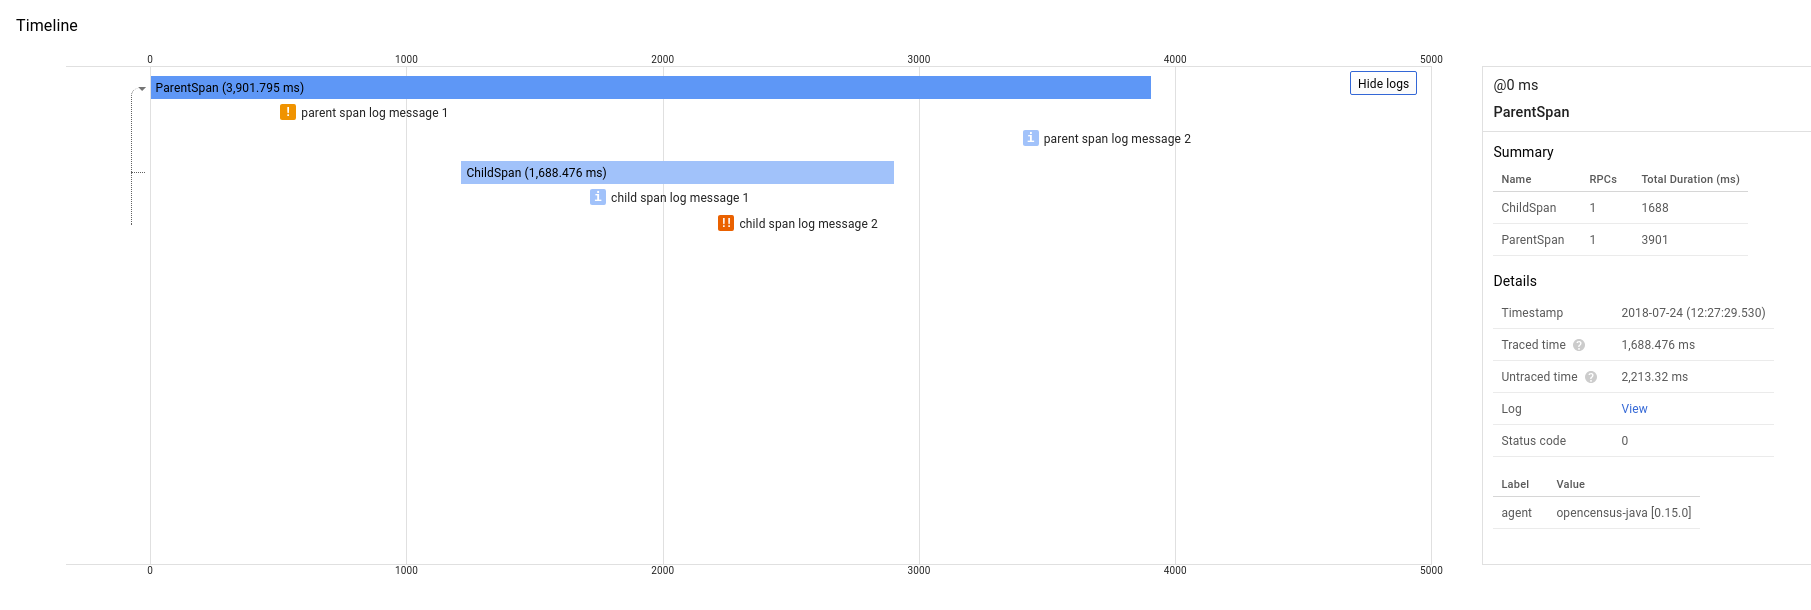
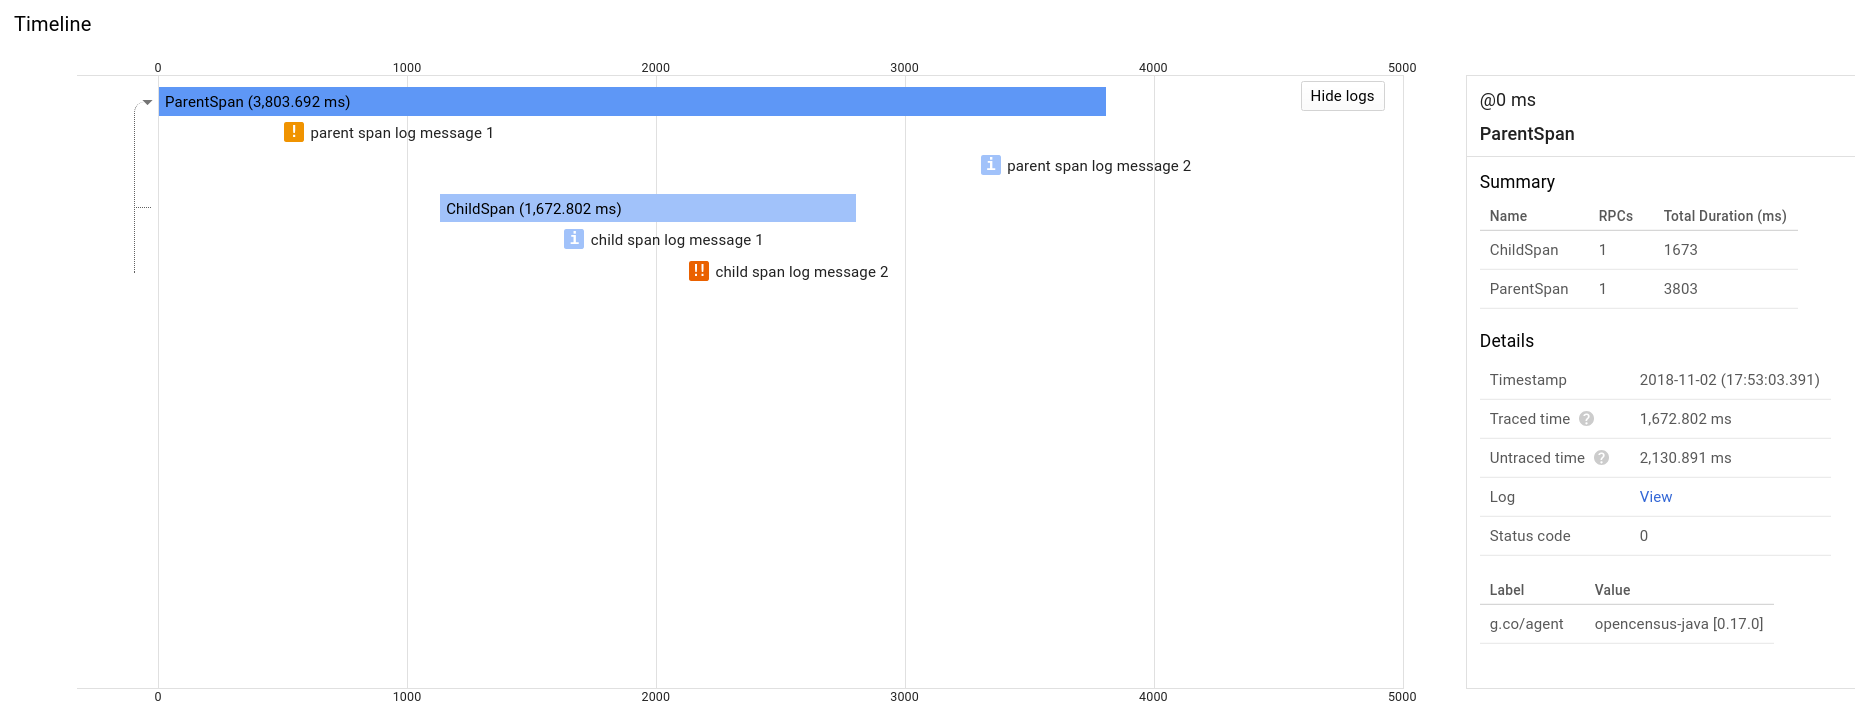
Update Stackdriver Logback log correlation demo for opencensus-java 0.17.0.
opencensus-java 0.17.0 removed the "span selection" feature and the
"traceSampled" custom label.

diff --git a/java/log_correlation/stackdriver/logback/README.md b/java/log_correlation/stackdriver/logback/README.md
@@ -18,6 +18,6 @@ Sampled trace in Stackdriver, with log entries displayed below each span:
 
 ![Traces](images/trace.png "Example trace in Stackdriver")
 
-Log entries containing "trace", "spanId", and "opencensusTraceSampled" fields in Stackdriver:
+Log entries containing "trace" and "spanId" fields in Stackdriver:
 
 ![Logs](images/logs.png "Example logs in Stackdriver")
